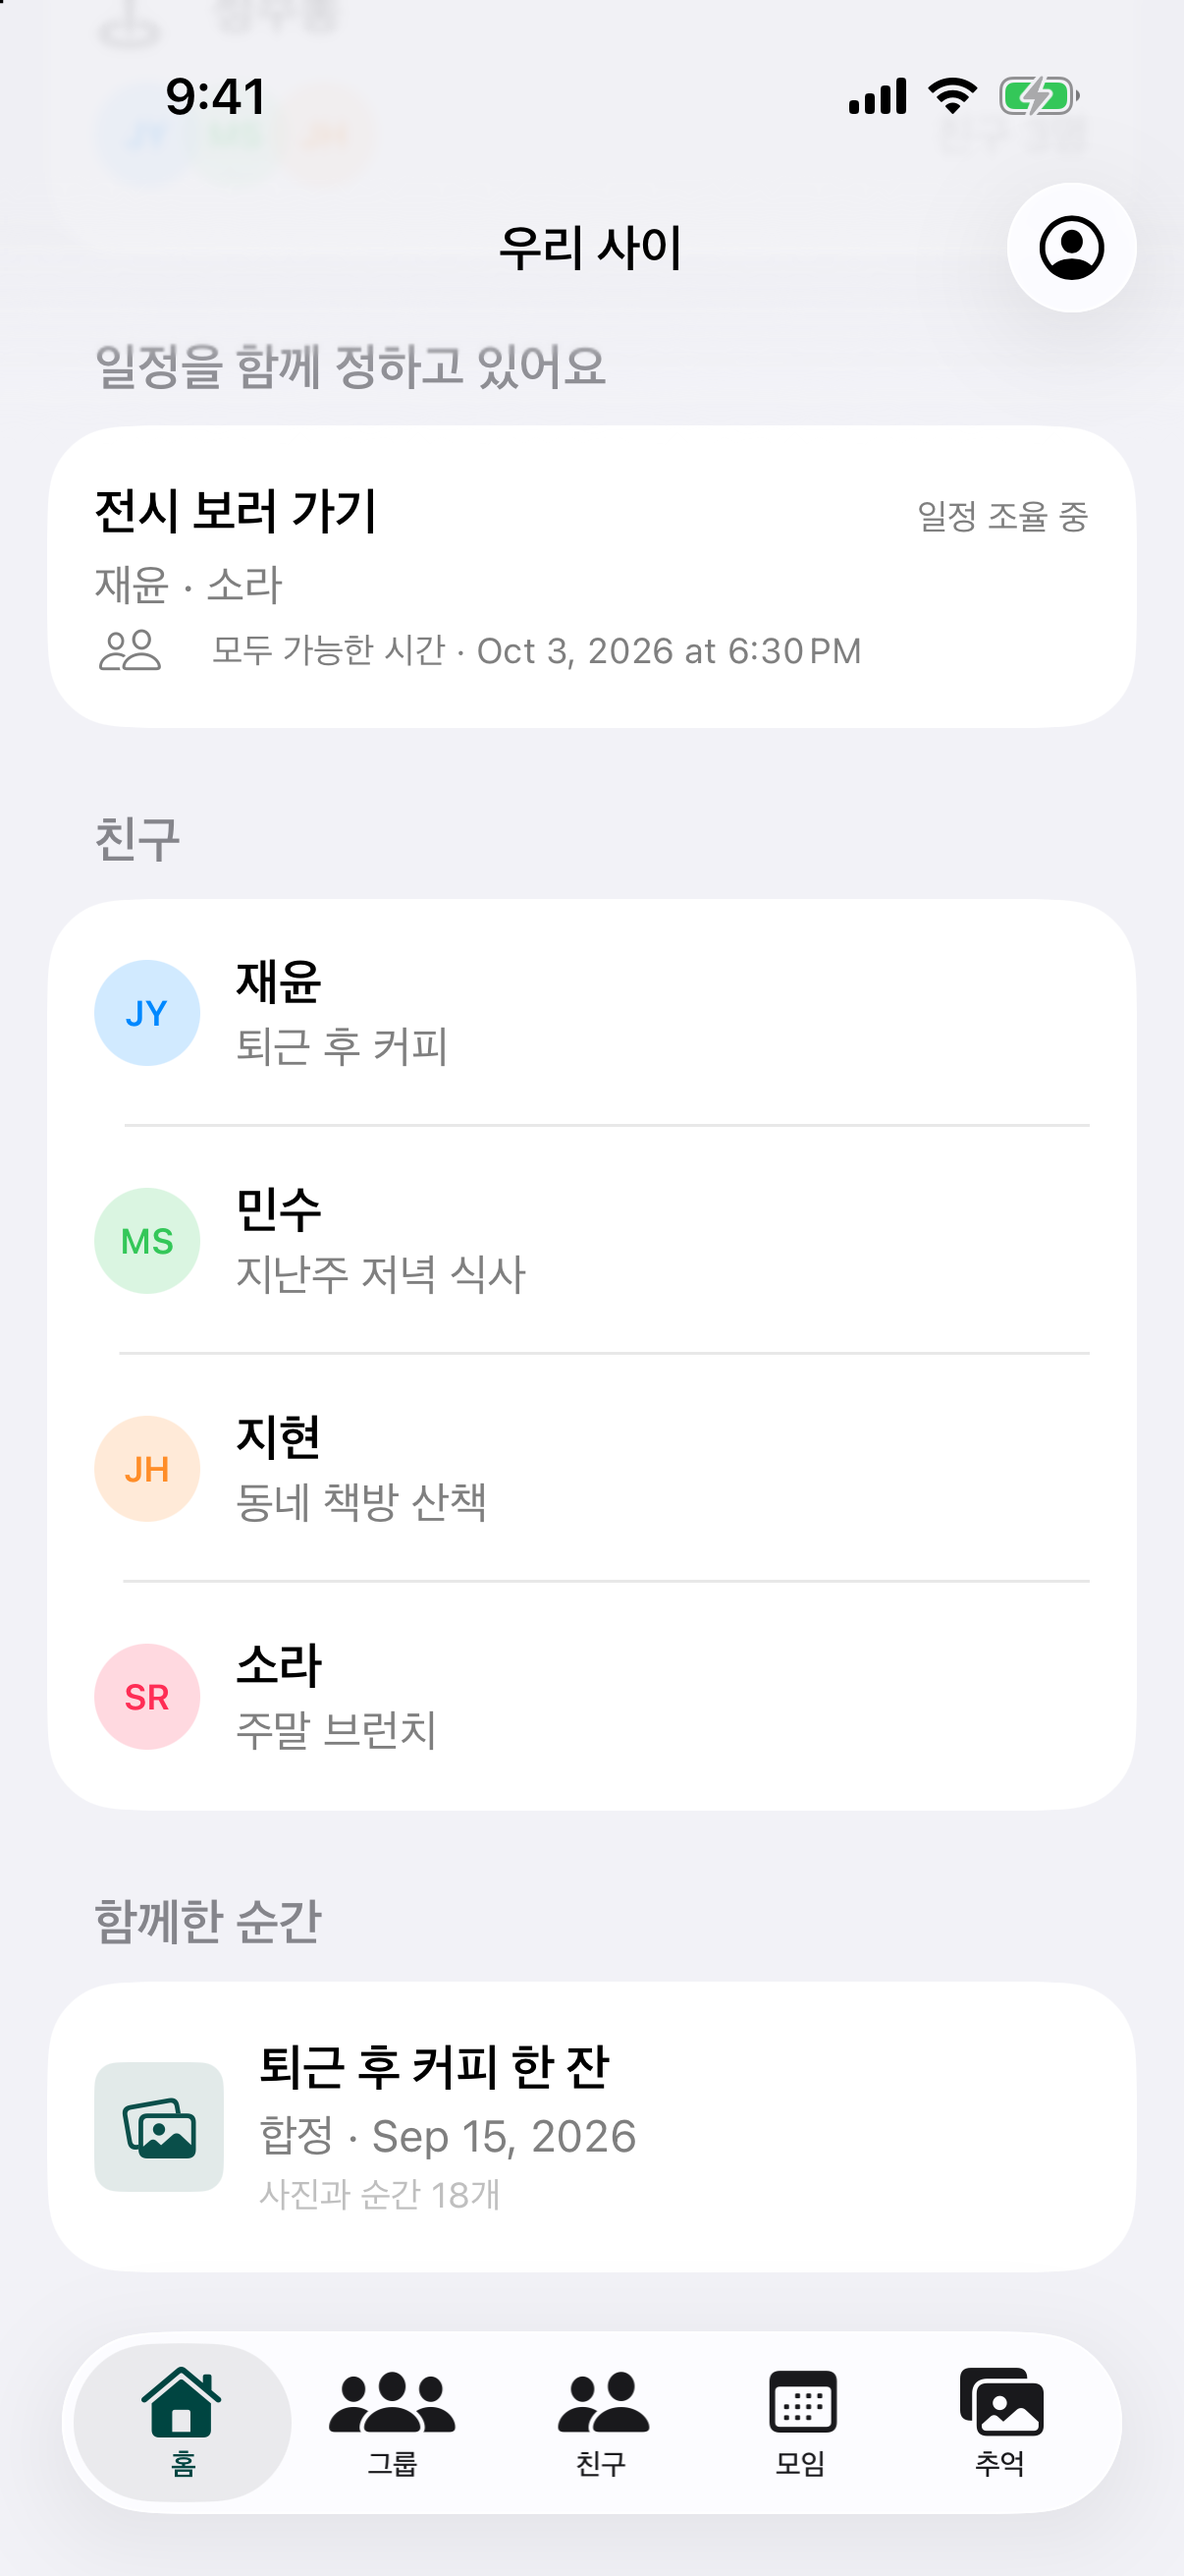
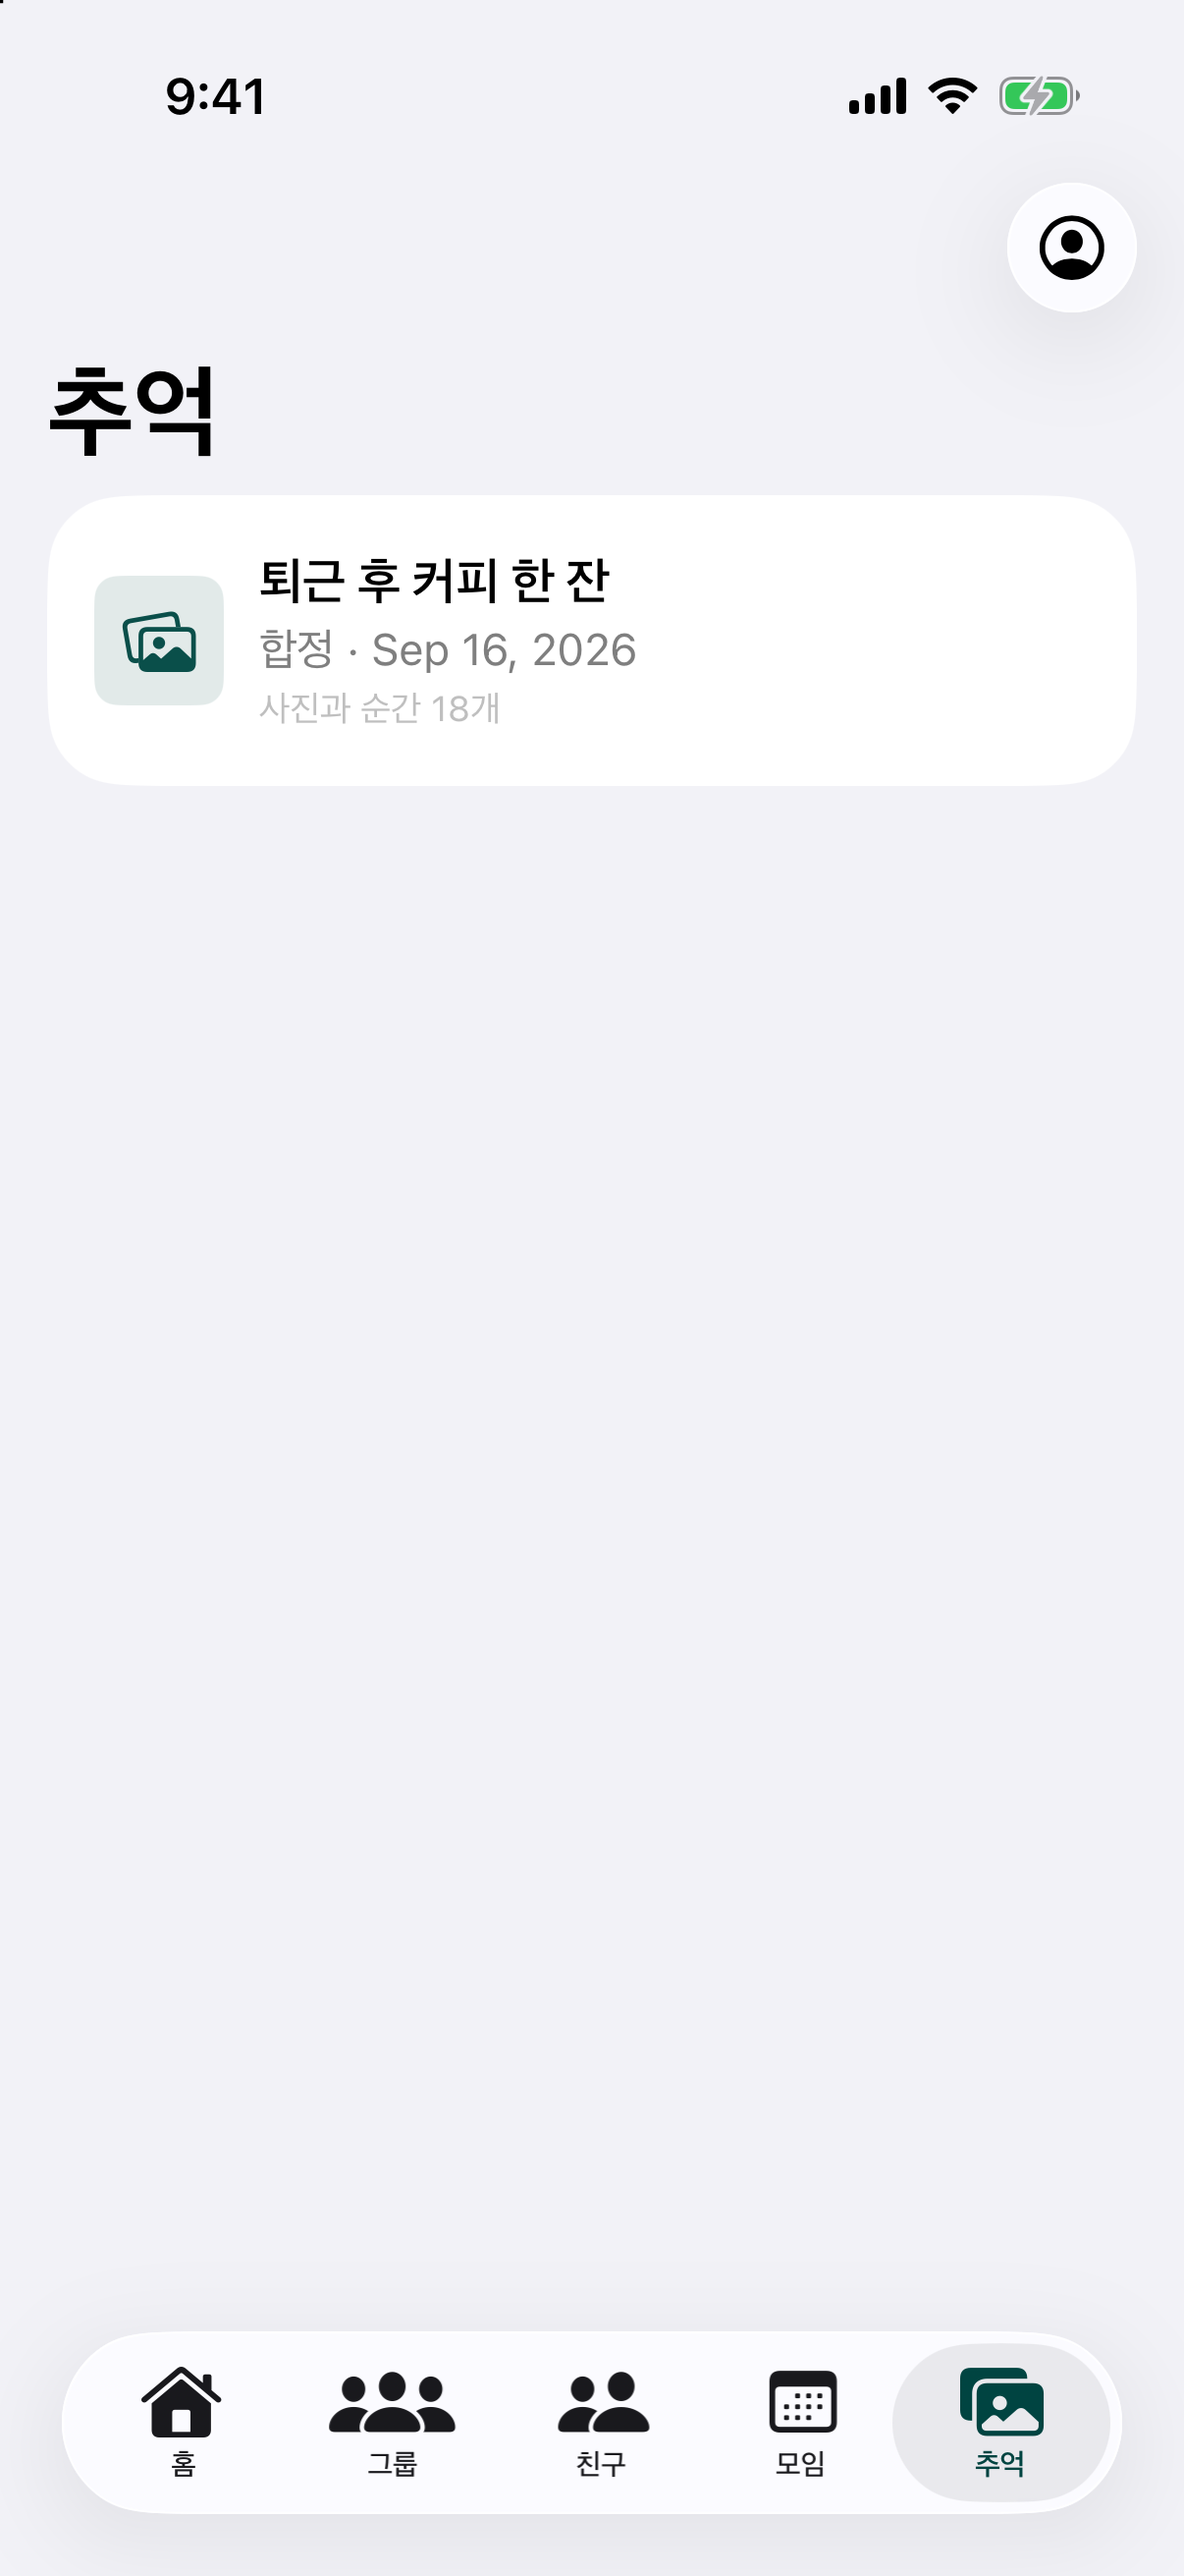
Expand product rationale and app screenshots

diff --git a/PrivateCircle/ContentView.swift b/PrivateCircle/ContentView.swift
@@ -2,8 +2,32 @@ import SwiftUI
 
 struct ContentView: View {
     @StateObject private var session = SessionStore()
+    @State private var selectedTab: String = {
+        let argument = ProcessInfo.processInfo.arguments.first {
+            $0.hasPrefix("--screenshot-tab=")
+        }
+        return argument.map { String($0.dropFirst("--screenshot-tab=".count)) } ?? "home"
+    }()
 
     var body: some View {
+        Group {
+#if DEBUG
+            if ProcessInfo.processInfo.arguments.contains("--screenshot-preview") {
+                appTabs(
+                    for: AppUser(id: "screenshot-demo", email: "demo@urisai.app", displayName: "우리 사이"),
+                    screenshotPreview: true
+                )
+            } else {
+                authenticatedContent
+            }
+#else
+            authenticatedContent
+#endif
+        }
+        .animation(.default, value: session.user?.id)
+    }
+
+    private var authenticatedContent: some View {
         Group {
             if session.isLoading {
                 ProgressView("불러오는 중")
@@ -13,11 +37,10 @@ struct ContentView: View {
                 AuthView(session: session)
             }
         }
-        .animation(.default, value: session.user?.id)
     }
 
-    private func appTabs(for user: AppUser) -> some View {
-        TabView {
+    private func appTabs(for user: AppUser, screenshotPreview: Bool = false) -> some View {
+        TabView(selection: $selectedTab) {
             NavigationStack {
                 HomeView()
                     .toolbar { accountToolbar(user: user) }
@@ -25,14 +48,26 @@ struct ContentView: View {
             .tabItem {
                 Label("홈", systemImage: "house")
             }
+            .tag("home")
 
             NavigationStack {
+                Group {
+#if DEBUG
+                if screenshotPreview {
+                    ScreenshotGroupsView()
+                } else {
+                    GroupsView(user: user)
+                }
+#else
                 GroupsView(user: user)
-                    .toolbar { accountToolbar(user: user) }
+#endif
+                }
+                .toolbar { accountToolbar(user: user) }
             }
             .tabItem {
                 Label("그룹", systemImage: "person.3")
             }
+            .tag("groups")
 
             NavigationStack {
                 FriendsView()
@@ -41,6 +76,7 @@ struct ContentView: View {
             .tabItem {
                 Label("친구", systemImage: "person.2")
             }
+            .tag("friends")
 
             NavigationStack {
                 MeetupsView()
@@ -49,14 +85,26 @@ struct ContentView: View {
             .tabItem {
                 Label("모임", systemImage: "calendar")
             }
+            .tag("meetups")
 
             NavigationStack {
-                MemoriesView()
+                Group {
+#if DEBUG
+                    if screenshotPreview {
+                        ScreenshotMemoriesView()
+                    } else {
+                        MemoriesView()
+                    }
+#else
+                    MemoriesView()
+#endif
+                }
                     .toolbar { accountToolbar(user: user) }
             }
             .tabItem {
                 Label("추억", systemImage: "photo.on.rectangle")
             }
+            .tag("memories")
         }
     }
 
@@ -75,6 +123,89 @@ struct ContentView: View {
         }
     }
 }
+
+#if DEBUG
+private struct ScreenshotGroupsView: View {
+    private let groups = ["대학 친구들", "회사 동료", "주말 산책"]
+    @State private var showingCreateSheet = ProcessInfo.processInfo.arguments.contains("--screenshot-group-create")
+    @State private var groupName = ""
+
+    var body: some View {
+        List {
+            Section("내 그룹") {
+                ForEach(groups, id: \.self) { group in
+                    HStack(spacing: 12) {
+                        Image(systemName: "person.3.fill")
+                            .foregroundStyle(.tint)
+                            .frame(width: 40, height: 40)
+                            .background(.tint.opacity(0.12), in: RoundedRectangle(cornerRadius: 8))
+
+                        VStack(alignment: .leading, spacing: 3) {
+                            Text(group)
+                                .font(.headline)
+                            Text("친구들과 함께하는 공간")
+                                .font(.subheadline)
+                                .foregroundStyle(.secondary)
+                        }
+                    }
+                    .padding(.vertical, 3)
+                }
+            }
+        }
+        .listStyle(.insetGrouped)
+        .navigationTitle("그룹")
+        .toolbar {
+            ToolbarItem(placement: .topBarTrailing) {
+                Button {
+                    showingCreateSheet = true
+                } label: {
+                    Image(systemName: "plus")
+                }
+                .accessibilityLabel("그룹 만들기")
+            }
+        }
+        .sheet(isPresented: $showingCreateSheet) {
+            NavigationStack {
+                Form {
+                    Section("그룹 이름") {
+                        TextField("예: 대학 친구들", text: $groupName)
+                    }
+
+                    Section {
+                        Text("그룹을 만든 뒤 이메일로 친구를 초대할 수 있어요.")
+                            .font(.footnote)
+                            .foregroundStyle(.secondary)
+                    }
+                }
+                .navigationTitle("새 그룹")
+                .navigationBarTitleDisplayMode(.inline)
+                .toolbar {
+                    ToolbarItem(placement: .cancellationAction) {
+                        Button("취소") { showingCreateSheet = false }
+                    }
+                    ToolbarItem(placement: .confirmationAction) {
+                        Button("만들기") {}
+                            .disabled(groupName.trimmingCharacters(in: .whitespacesAndNewlines).isEmpty)
+                    }
+                }
+            }
+            .presentationDetents([.medium])
+        }
+    }
+}
+
+private struct ScreenshotMemoriesView: View {
+    var body: some View {
+        List {
+            ForEach(MockData.memories) { memory in
+                MemoryRow(memory: memory)
+            }
+        }
+        .listStyle(.insetGrouped)
+        .navigationTitle("추억")
+    }
+}
+#endif
 
 private struct FriendsView: View {
     var body: some View {

diff --git a/docs/product-rationale.md b/docs/product-rationale.md
@@ -1,0 +1,39 @@
+# 우리 사이 기획 배경
+
+## 출발점
+
+많은 소셜 앱은 더 많은 노출과 반응을 얻는 일을 중심에 둡니다. 하지만 가까운 친구와의 관계에서 자주 필요한 일은 친구의 게시물을 계속 보는 것보다 다음 만남을 정하고, 실제로 만나고, 함께한 순간을 다시 꺼내 보는 일입니다.
+
+약속은 메신저 대화에 흩어지고, 가능한 시간을 맞추는 과정은 반복됩니다. 함께 찍은 사진도 각자의 앨범이나 대화방에 남아 함께 만든 기억으로 이어지기 어렵습니다.
+
+## 제품 가설
+
+친한 사람끼리 쓰는 작은 공간 안에서 `그룹 → 약속 → 만남 → 사진과 순간 → 추억`을 연결하면, 앱을 보는 시간이 아니라 실제로 함께 보내는 시간이 늘어날 수 있습니다.
+
+## 설계 선택
+
+- **친구와 그룹부터**: 불특정 다수에게 공개하기보다 실제 관계를 아는 사람끼리 초대하고 모입니다.
+- **약속을 핵심 객체로**: 콘텐츠 게시물보다 참여자, 후보 일정, 확정 장소처럼 함께 결정할 정보를 먼저 다룹니다.
+- **점수판을 만들지 않기**: 팔로워 수와 좋아요 수를 관계의 성과처럼 보여 주지 않습니다.
+- **기억을 함께 남기기**: 모임 중 공유한 사진과 순간을 나중에 다시 찾을 수 있는 추억으로 묶습니다.
+- **기본은 비공개**: 개인의 활동을 공개 피드에 자동 노출하지 않고, 그룹 구성원과 공유 범위를 분명히 합니다.
+- **익숙한 iOS 경험**: 내비게이션, 시트, 폼, 접근성은 SwiftUI와 Apple HIG를 따릅니다.
+
+## 핵심 사용 흐름
+
+1. 친구와 목적별 그룹을 여러 개 만듭니다.
+2. 그룹 안에서 모임을 만들고 가능한 일정과 장소를 맞춥니다.
+3. 모임 당일 서로의 출발·도착 상태를 확인합니다.
+4. 함께 찍은 사진과 짧은 순간을 모임에 공유합니다.
+5. 공유된 순간을 모임 단위 추억으로 다시 찾아봅니다.
+
+## 의도적으로 하지 않을 것
+
+- 추천 알고리즘이 정하는 공개 피드
+- 팔로워·좋아요 수 경쟁과 인기 순위
+- 인플루언서 중심의 도달 구조와 광고 피드
+- 친구의 위치나 활동을 동의 없이 추적하는 기능
+
+## 현재 구현 범위
+
+현재 앱에는 Firebase 이메일 인증과 Firestore 기반 그룹 생성·이메일 초대 흐름이 있습니다. 홈, 친구, 모임, 추억 목록은 화면 구성 확인을 위한 샘플 데이터이며, 일정 조율·도착 상태·사진 업로드·공동 추억의 실제 저장 흐름은 후속 MVP 작업입니다. 이 구분을 유지해 화면 시안이 완성된 기능처럼 오해되지 않도록 합니다.

diff --git a/README.md b/README.md
@@ -6,11 +6,33 @@
   <img src="PrivateCircle/Assets.xcassets/AppIcon.appiconset/AppIcon.png" width="128" alt="우리 사이 앱 아이콘">
 </p>
 
+## 기획 이유
+
+친구 관계에서 더 중요한 것은 공개적인 반응을 모으는 일보다 약속을 정하고 실제로 만나 함께한 순간을 기억하는 일이라고 봤습니다. 그래서 우리 사이는 그룹과 모임을 중심에 두고, 팔로워·좋아요 경쟁과 추천 피드를 제품 목표에서 제외합니다.
+
+[기획 배경, 설계 원칙, MVP 범위 읽기](docs/product-rationale.md)
+
 ## 앱 화면
 
-| 로그인 | 추억 |
-| --- | --- |
-| <img src="docs/screenshots/login.png" width="300" alt="우리 사이 로그인 화면"> | <img src="docs/screenshots/memories.png" width="300" alt="우리 사이 추억 화면"> |
+아래 화면은 Debug 미리보기에서 샘플 데이터로 캡처했습니다. 그룹 화면도 예시 그룹을 사용하며 Firebase 계정이나 서버 데이터를 변경하지 않습니다.
+
+재캡처할 때는 Debug 스킴의 Launch Arguments에 `--screenshot-preview`와 `--screenshot-tab=home|groups|friends|meetups|memories`를 지정합니다. 그룹 생성 시트는 `--screenshot-group-create`도 추가합니다.
+
+<table>
+  <tr>
+    <td align="center"><strong>로그인</strong><br><img src="docs/screenshots/login.png" width="180" alt="로그인 화면"></td>
+    <td align="center"><strong>홈</strong><br><img src="docs/screenshots/home.png" width="180" alt="홈 화면"></td>
+    <td align="center"><strong>그룹</strong><br><img src="docs/screenshots/groups.png" width="180" alt="그룹 목록 화면"></td>
+  </tr>
+  <tr>
+    <td align="center"><strong>그룹 만들기</strong><br><img src="docs/screenshots/group-create.png" width="180" alt="그룹 생성 화면"></td>
+    <td align="center"><strong>친구</strong><br><img src="docs/screenshots/friends.png" width="180" alt="친구 목록 화면"></td>
+    <td align="center"><strong>모임</strong><br><img src="docs/screenshots/meetups.png" width="180" alt="모임 목록 화면"></td>
+  </tr>
+  <tr>
+    <td align="center"><strong>추억</strong><br><img src="docs/screenshots/memories.png" width="180" alt="추억 화면"></td>
+  </tr>
+</table>
 
 ## 주요 흐름
 
@@ -24,6 +46,10 @@
 - SwiftUI, iOS 17 이상
 - Firebase Authentication
 - Cloud Firestore
+
+## 현재 구현 범위
+
+Firebase 이메일 인증과 Firestore 그룹 생성·이메일 초대 흐름이 연결되어 있습니다. 홈·친구·모임·추억의 목록은 현재 샘플 데이터이며, 실제 일정 조율·도착 상태·사진 업로드는 다음 MVP 작업입니다.
 
 ## 실행
 
